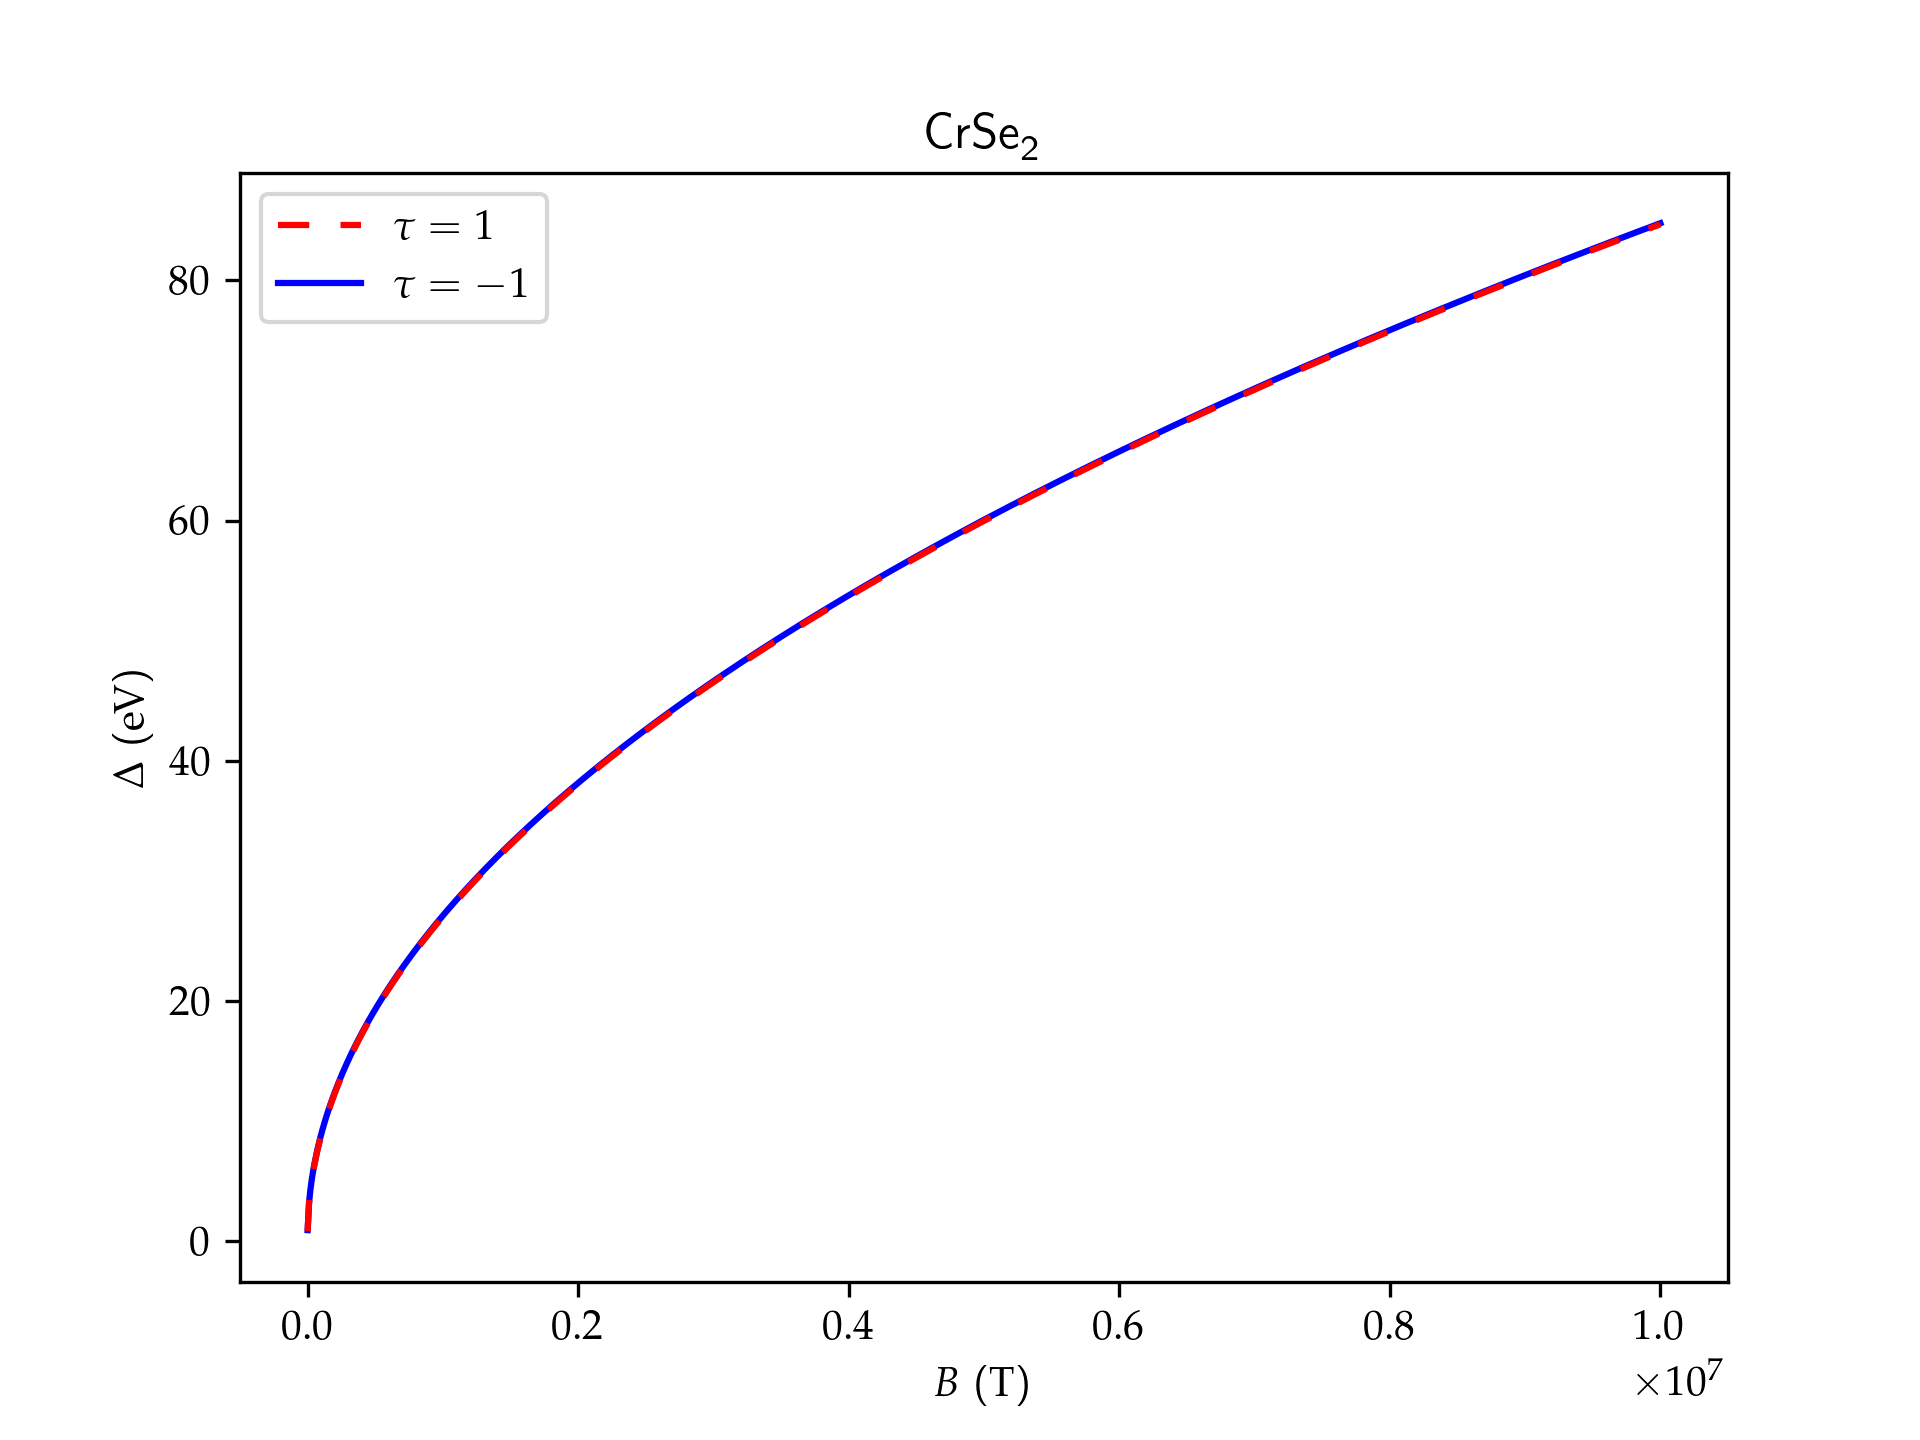
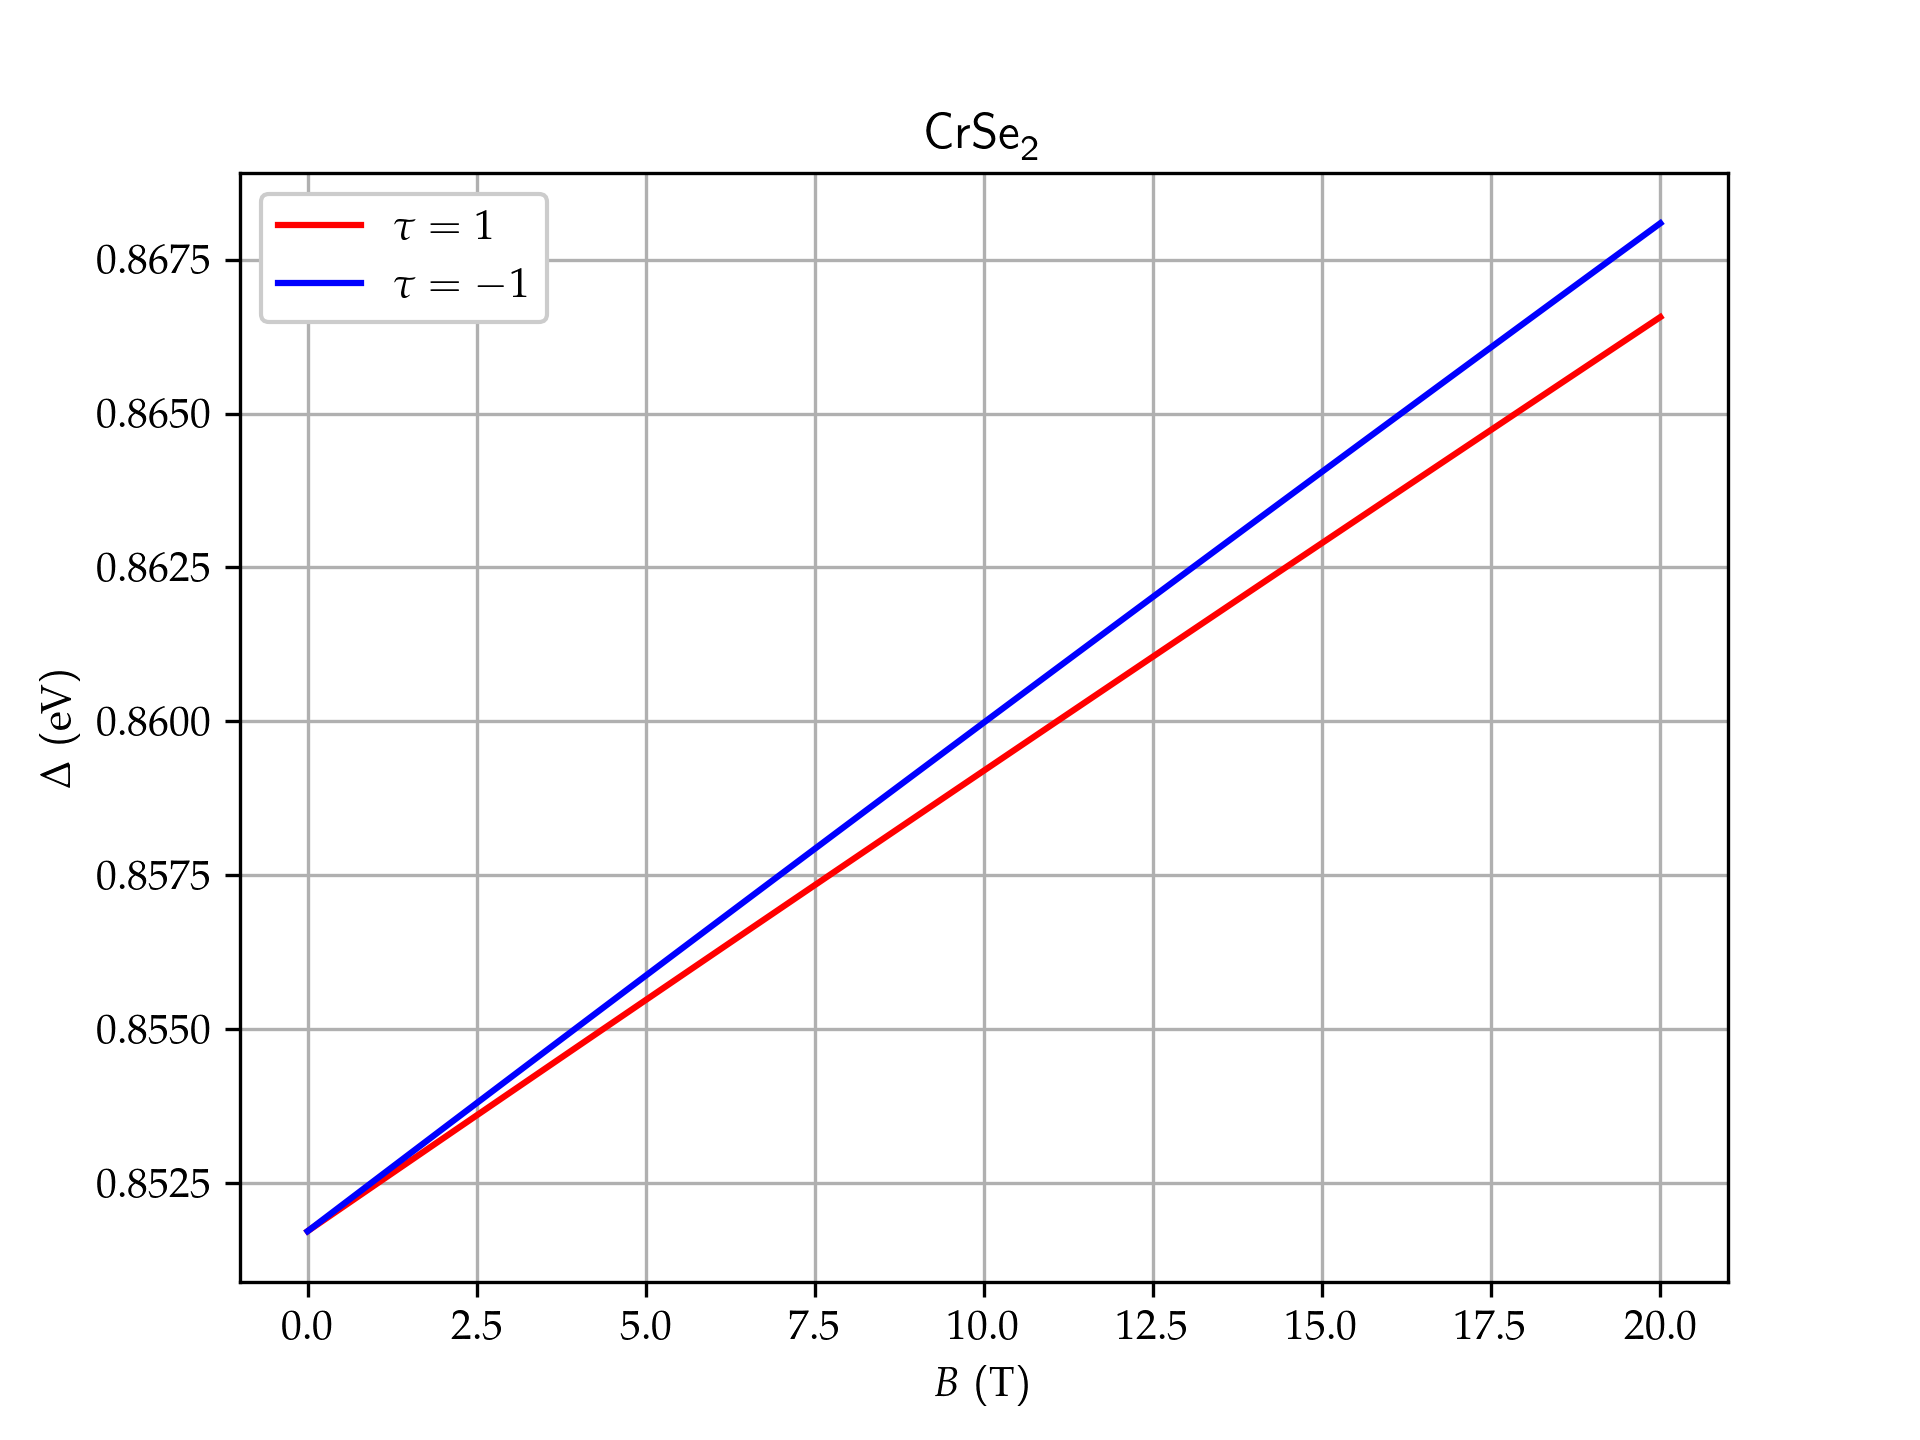
Corrigindo gráficos do gap em termos do campo externo

diff --git a/scripts/landau_levels.py b/scripts/landau_levels.py
@@ -178,12 +178,9 @@ for lattice_name, lattice_const in lattices.items():
     )
 
     colors = ("red", "blue")
-    linestyles = ((0, (5, 5)), "solid")
-    mag_field = np.linspace(1, 1e7, 1000)
+    mag_field = np.linspace(0, 20, 100)
 
-    for color, linestyle, (valley_name, valley_index) in zip(
-        colors, linestyles, valleys.items()
-    ):
+    for color, (valley_name, valley_index) in zip(colors, valleys.items()):
         cond_down_level = landau_levels(
             lattice_const=lattice_const,
             delta=delta,
@@ -191,7 +188,7 @@ for lattice_name, lattice_const in lattices.items():
             gamma_0=gamma_0,
             valley_index=valley_index,
             mag_field=mag_field,
-            spin="down",
+            spin="down" if valley_index == 1 else "up",
             n=1 if valley_index == 1 else 0,
         )[1]
 
@@ -202,7 +199,7 @@ for lattice_name, lattice_const in lattices.items():
             gamma_0=gamma_0,
             valley_index=valley_index,
             mag_field=mag_field,
-            spin="up",
+            spin="up" if valley_index == 1 else "down",
             n=0 if valley_index == 1 else 1,
         )[0]
 
@@ -211,12 +208,11 @@ for lattice_name, lattice_const in lattices.items():
             mag_field,
             bandgap,
             color=color,
-            linestyle=linestyle,
             label=rf"$\tau = {valley_index}$",
-            zorder=valley_index,
         )
 
-    ax.legend()
+    ax.grid()
+    ax.legend(framealpha=1.0)
 
     basename = f"{lattice_name}_bandgap_field"
     filename = images_dir.joinpath(f"{basename}.png")
